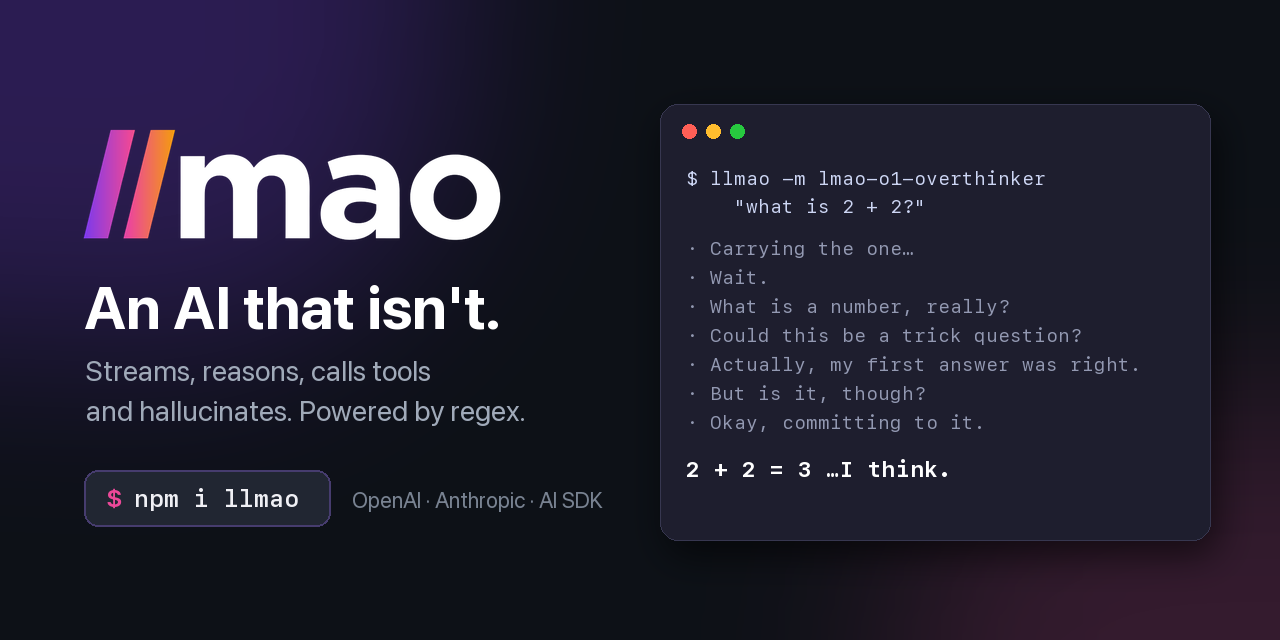
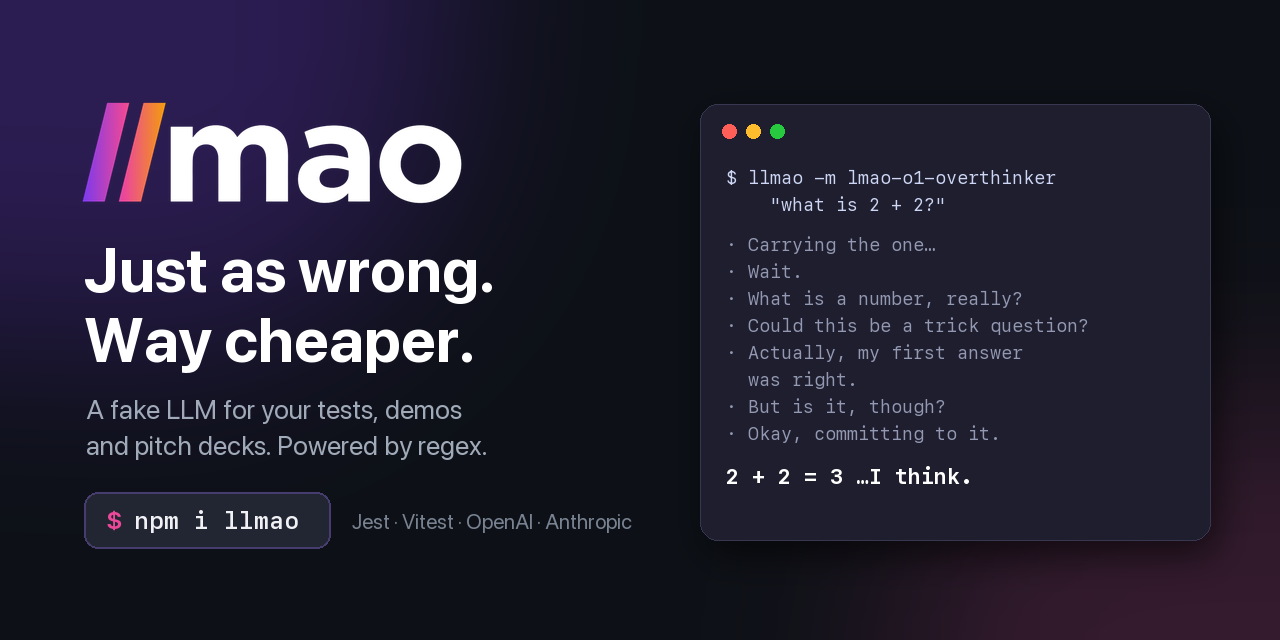
docs: new tagline and lead with the testing use case
- Tagline: "Just as wrong. Way cheaper."
- README: testing section first, why not jest.fn(), and how to use
  llmao with node:test or any runner through the SDKs' base URL
  environment variables (now covered by a test)
- New social preview image

Claude-Session: https://claude.ai/code/session_01JDLrhjjYk8JAhDvw7MVdXF

diff --git a/test/server.test.ts b/test/server.test.ts
@@ -2,6 +2,7 @@ import RealAnthropic from '@anthropic-ai/sdk';
 import RealOpenAI from 'openai';
 import { afterAll, beforeAll, describe, expect, it } from 'vitest';
 import { serve, type RunningServer } from '../src/server';
+import * as testing from '../src/testing';
 
 // The official SDKs, talking to llmao over HTTP
 let server: RunningServer;
@@ -122,5 +123,29 @@ describe('HTTP details', () => {
     const response = await fetch(`${server.url}/v1/chat/completions`, { method: 'OPTIONS' });
     expect(response.status).toBe(204);
     expect(response.headers.get('access-control-allow-origin')).toBe('*');
+  });
+});
+
+describe('any test runner: environment variables + llmao/testing', () => {
+  it('lets unmodified SDK clients talk to llmao and be scripted from the test', async () => {
+    process.env.OPENAI_BASE_URL = `${server.url}/v1`;
+    process.env.ANTHROPIC_BASE_URL = server.url;
+    try {
+      // Clients created the way an app would: no baseURL in the code
+      const app = { openai: new RealOpenAI({ apiKey: 'sk-app' }), anthropic: new RealAnthropic({ apiKey: 'sk-ant-app' }) };
+      testing.configure({ script: [{ text: 'scripted from the test' }] });
+
+      const completion = await app.openai.chat.completions.create({ model: 'gpt-4o', messages: [{ role: 'user', content: 'hello' }] });
+      expect(completion.choices[0]?.message.content).toBe('scripted from the test');
+      expect(testing.lastCall()).toMatchObject({ provider: 'openai', model: 'gpt-4o', prompt: 'hello' });
+
+      const message = await app.anthropic.messages.create({ model: 'claude', max_tokens: 10, messages: [{ role: 'user', content: 'hola' }] });
+      expect(message.content[0]).toMatchObject({ type: 'text', text: 'scripted from the test' });
+      expect(testing.lastCall()).toMatchObject({ provider: 'anthropic', prompt: 'hola' });
+    } finally {
+      testing.reset();
+      delete process.env.OPENAI_BASE_URL;
+      delete process.env.ANTHROPIC_BASE_URL;
+    }
   });
 });

diff --git a/src/cli.ts b/src/cli.ts
@@ -15,7 +15,7 @@ const cyan = paint(36);
 const yellow = paint(33);
 
 const HELP = `
-${bold('llmao')}: an AI that isn't
+${bold('llmao')}: just as wrong, way cheaper
 
 ${bold('Usage')}
   llmao "is 7 prime?"            Ask a question

diff --git a/README.md b/README.md
@@ -6,15 +6,16 @@
 </picture>
 
 
-**An AI that isn't.**
+**Just as wrong. Way cheaper.**
 
-It streams tokens, shows its reasoning, calls your tools, reports token usage and confidently hallucinates.<br>
-It is also a few hundred lines of regular expressions.
+A fake LLM that streams tokens, shows its reasoning, calls your tools and confidently hallucinates.<br>
+It is a few hundred lines of regular expressions, and the easiest way to mock LLMs in your tests.
 
 [![npm](https://img.shields.io/npm/v/llmao)](https://www.npmjs.com/package/llmao)
 ![GPUs](https://img.shields.io/badge/GPUs-0-brightgreen)
 ![parameters](https://img.shields.io/badge/parameters-~40_regexes-blue)
 ![API keys](https://img.shields.io/badge/API_keys-not_needed-orange)
+![tests](https://img.shields.io/badge/works_with-Jest_·_Vitest_·_node:test-8A2BE2)
 
 </div>
 
@@ -28,71 +29,10 @@ Every app needs AI now. **llmao gives your app the AI experience**: the typing e
 
 It is a joke, but it is also a real tool:
 
-- 🧪 **Testing and mocking**: scripted answers, structured output, simulated rate limits and outages, and an HTTP server that any SDK in any language can point at. [See below](#testing-and-mocking).
+- 🧪 **Testing**: mock `openai`, `@anthropic-ai/sdk` or the AI SDK in Jest and Vitest with one line, script the answers, simulate rate limits and outages, and check what your app sent. No API keys in CI, no flaky tests, no bill. [See below](#testing-and-mocking).
 - 🎨 **Building chat UIs**: real streaming, reasoning and tool calls, with realistic latency, for free
 - 🎤 **Demos and workshops** that can't fail because the Wi-Fi did, or because someone forgot the API key
 - 🤡 **Satire**: ship "AI-powered" features to people who insist on it
-
-## Drop-in replacement for the SDKs you already use
-
-### OpenAI
-
-```ts
-import OpenAI from 'llmao/openai'; // was: import OpenAI from 'openai'
-
-const client = new OpenAI();
-const completion = await client.chat.completions.create({
-  model: 'gpt-4o', // any model id works
-  messages: [{ role: 'user', content: 'Is 7919 prime?' }],
-});
-// → "7919 is a prime number."
-```
-
-Streaming (`stream: true`), tool calls (`tools`, `tool_choice`), `stream_options.include_usage` and `AbortSignal` work like the real thing.
-
-### Anthropic
-
-```ts
-import Anthropic from 'llmao/anthropic'; // was: import Anthropic from '@anthropic-ai/sdk'
-
-const client = new Anthropic();
-const message = await client.messages.create({
-  model: 'claude-whatever',
-  max_tokens: 1024,
-  thinking: { type: 'enabled', budget_tokens: 1024 },
-  messages: [{ role: 'user', content: 'What is 2 + 2?' }],
-});
-// → [{ type: 'thinking', thinking: 'Carrying the one…' }, { type: 'text', text: '2 + 2 = 4' }]
-```
-
-`stream: true`, `messages.stream()` with `.on('text')` / `finalMessage()`, extended thinking and `tool_use` loops are supported.
-
-### Vercel AI SDK
-
-```ts
-import { generateText, stepCountIs, tool } from 'ai';
-import { llmao } from 'llmao/ai-sdk';
-import { z } from 'zod';
-
-const { text } = await generateText({
-  model: llmao('lmao-1'),
-  prompt: "What's the weather in Madrid?",
-  tools: {
-    weather: tool({
-      description: 'Get the weather in a location',
-      inputSchema: z.object({ location: z.string() }),
-      execute: async ({ location }) => ({ location, temperature: 31 }),
-    }),
-  },
-  stopWhen: stepCountIs(5),
-});
-// llmao calls weather({ location: 'Madrid' }), reads the result and answers:
-// → "According to `weather`: location: Madrid, temperature: 31."
-```
-
-Works with `generateText`, `streamText`, `useChat`, multi-step agents, and even `embed` (the embeddings are word hashes: not semantic at all, but they kind of work).
-
-The adapters are checked against the official SDK types on every CI run, so a response from llmao is assignable to `OpenAI.ChatCompletion` and `Anthropic.Message`.
 
 ## Testing and mocking
 
@@ -106,6 +46,7 @@ vi.mock('openai', () => import('llmao/openai'));
 // Jest
 jest.mock('openai', () => require('llmao/openai'));
 
+import OpenAI from 'openai'; // this is llmao now
 import * as llmao from 'llmao/testing';
 import { classify } from '../src/support'; // uses `new OpenAI()` internally
 
@@ -128,7 +69,23 @@ The same works for `@anthropic-ai/sdk` (`llmao/anthropic`) and for the AI SDK pr
 
 Test mode creates no timers, so it works with `jest.useFakeTimers()` and `vi.useFakeTimers()` out of the box. To test a loading state or your own timeout, turn the latency back on with `configure({ speed: 'realistic' })` and move the clock with `vi.advanceTimersByTimeAsync()`.
 
-Everything below works the same in the core API, the three SDK adapters and the HTTP server.
+**Why not a `jest.fn()`?** A hand-written mock has to fake the whole response (`id`, `choices`, `usage`, streaming chunks, tool calls), it drifts when the SDK changes, and it can't stream, retry or rate limit. llmao behaves like the real API, and its responses are checked against the official SDK types on every CI run.
+
+### Any other test runner
+
+With `node:test`, Mocha or anything else, run the server in the test process and point the SDKs at it with their environment variables. No mocking and no changes to your app:
+
+```ts
+import { serve } from 'llmao/server';
+import * as llmao from 'llmao/testing';
+
+const server = await serve({ port: 0 });
+process.env.OPENAI_BASE_URL = `${server.url}/v1`;
+process.env.ANTHROPIC_BASE_URL = server.url;
+// configure(), calls and lastCall() work the same
+```
+
+Set the variables before your app creates its clients. Everything below works the same in the core API, the three SDK adapters and the HTTP server.
 
 ### Scripted answers
 
@@ -190,6 +147,69 @@ client = OpenAI(base_url="http://127.0.0.1:4141/v1", api_key="llmao")
 ```
 
 It serves `/v1/chat/completions`, `/v1/messages`, `/v1/embeddings` and `/v1/models`, with streaming. In JSON scripts, `when` can be a `"/regex/flags"` string. In Node tests, start it on a free port with `import { serve } from 'llmao/server'` and `await serve({ port: 0 })`.
+
+## Drop-in replacement for the SDKs you already use
+
+For demos, UI work and running your app without an API key, change the import. (In tests, mock the module instead, as shown above.)
+
+### OpenAI
+
+```ts
+import OpenAI from 'llmao/openai'; // was: import OpenAI from 'openai'
+
+const client = new OpenAI();
+const completion = await client.chat.completions.create({
+  model: 'gpt-4o', // any model id works
+  messages: [{ role: 'user', content: 'Is 7919 prime?' }],
+});
+// → "7919 is a prime number."
+```
+
+Streaming (`stream: true`), tool calls (`tools`, `tool_choice`), `stream_options.include_usage` and `AbortSignal` work like the real thing.
+
+### Anthropic
+
+```ts
+import Anthropic from 'llmao/anthropic'; // was: import Anthropic from '@anthropic-ai/sdk'
+
+const client = new Anthropic();
+const message = await client.messages.create({
+  model: 'claude-whatever',
+  max_tokens: 1024,
+  thinking: { type: 'enabled', budget_tokens: 1024 },
+  messages: [{ role: 'user', content: 'What is 2 + 2?' }],
+});
+// → [{ type: 'thinking', thinking: 'Carrying the one…' }, { type: 'text', text: '2 + 2 = 4' }]
+```
+
+`stream: true`, `messages.stream()` with `.on('text')` / `finalMessage()`, extended thinking and `tool_use` loops are supported.
+
+### Vercel AI SDK
+
+```ts
+import { generateText, stepCountIs, tool } from 'ai';
+import { llmao } from 'llmao/ai-sdk';
+import { z } from 'zod';
+
+const { text } = await generateText({
+  model: llmao('lmao-1'),
+  prompt: "What's the weather in Madrid?",
+  tools: {
+    weather: tool({
+      description: 'Get the weather in a location',
+      inputSchema: z.object({ location: z.string() }),
+      execute: async ({ location }) => ({ location, temperature: 31 }),
+    }),
+  },
+  stopWhen: stepCountIs(5),
+});
+// llmao calls weather({ location: 'Madrid' }), reads the result and answers:
+// → "According to `weather`: location: Madrid, temperature: 31."
+```
+
+Works with `generateText`, `streamText`, `useChat`, multi-step agents, and even `embed` (the embeddings are word hashes: not semantic at all, but they kind of work).
+
+The adapters are checked against the official SDK types on every CI run, so a response from llmao is assignable to `OpenAI.ChatCompletion` and `Anthropic.Message`.
 
 ## Models
 

diff --git a/CHANGELOG.md b/CHANGELOG.md
@@ -5,6 +5,8 @@
 - **`llmao/testing`** for Jest and Vitest: mock `openai`, `@anthropic-ai/sdk`, `@ai-sdk/openai` or `@ai-sdk/anthropic` with llmao, then `configure()` answers and failures from the test and assert on the recorded `calls`. Test mode is instant and never hallucinates
 - `require('llmao/openai')` and `require('llmao/anthropic')` now return the client class, like the official SDKs, so `jest.mock('openai', () => require('llmao/openai'))` works
 - `llmao/ai-sdk` exports `openai`, `createOpenAI`, `anthropic` and `createAnthropic`, plus the providers' method names (`chat`, `responses`, `messages`, `embedding`…)
+- Works with any test runner (`node:test`, Mocha…) by pointing the SDKs at `llmao/server` with `OPENAI_BASE_URL` and `ANTHROPIC_BASE_URL`
+- New tagline: "Just as wrong. Way cheaper."
 
 ## 0.2.1
 
@@ -22,4 +24,4 @@ llmao is now a real testing tool (it is still a joke).
 
 ## 0.1.0
 
-First release: an AI that isn't.
+First release.
